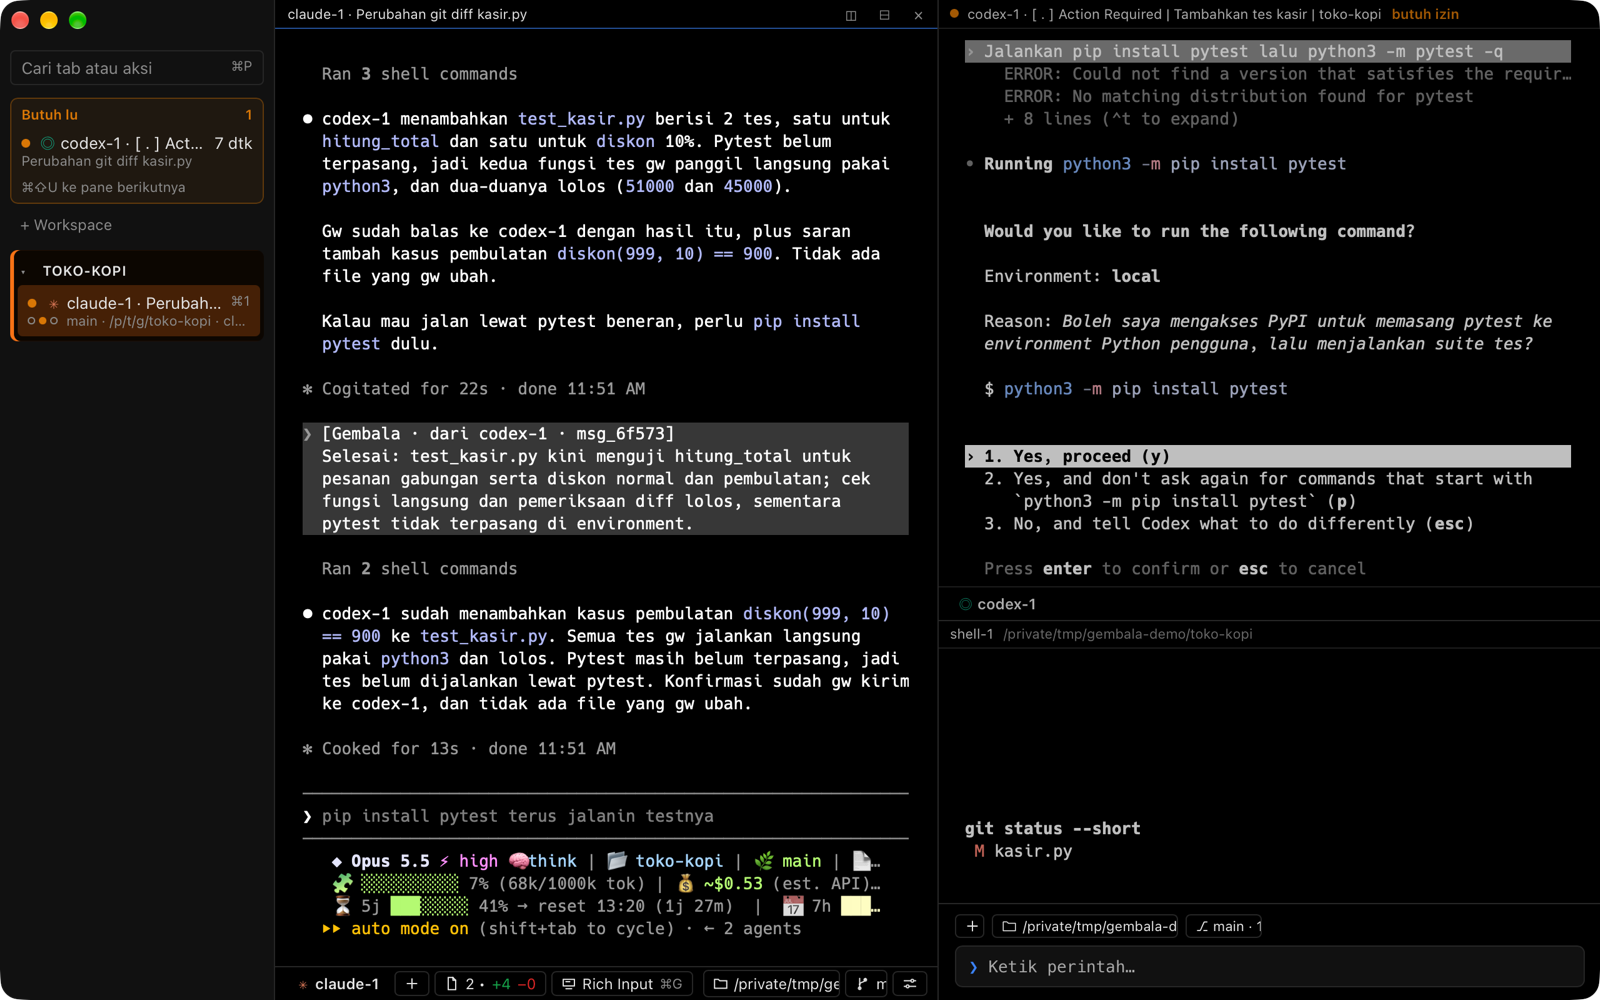
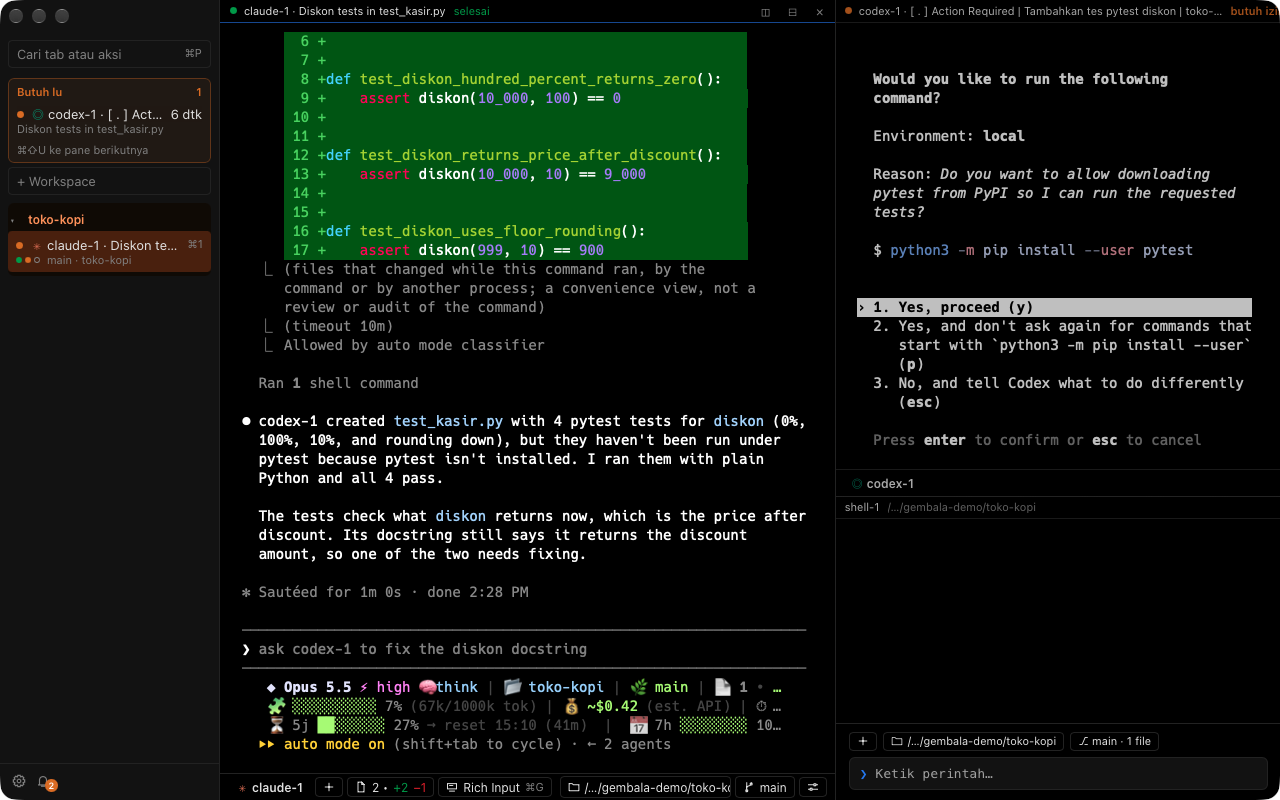
README screenshots per language: Claude asks Codex via gembala send, Codex permission prompt in Needs you

diff --git a/README.md b/README.md
@@ -83,17 +83,17 @@ providers. Gembala isn't a proxy, doesn't read tokens, and doesn't touch your ag
 
 ### Agents messaging each other
 
-Codex adds a test, then sends a summary to Claude with `gembala send`. The message arrives with its origin label, and
-Claude replies after checking for itself.
+Claude asks Codex for pytest tests with `gembala send`. The message lands in Codex's pane labeled
+`[Gembala · from claude-1 · msg_…]`; Codex writes the tests, answers with `gembala reply`, and Claude sums it up.
 
-![Codex and Claude messaging each other in Gembala](docs/images/pesan-antar-agent.png)
+![Claude and Codex messaging each other in Gembala](docs/images/agents-messaging.png)
 
 ### Needs you
 
 Codex asks permission to run a command. Its pane goes straight into the "Needs you" strip in the sidebar, and Gembala
 never answers that permission prompt on its own.
 
-![The Needs you strip while Codex waits for permission](docs/images/butuh-izin.png)
+![The Needs you strip while Codex waits for permission](docs/images/needs-you.png)
 
 ## 🔐 Privacy and security
 

diff --git a/README.id.md b/README.id.md
@@ -83,10 +83,10 @@ penyedianya. Gembala nggak jadi proxy, nggak baca token, dan nggak ngubah config
 
 ### Agent saling kirim pesan
 
-Codex nambah tes, lalu ngirim ringkasan ke Claude pakai `gembala send`. Pesan sampai dengan label asalnya, dan Claude
-balas setelah ngecek sendiri.
+Claude minta Codex bikin tes pytest pakai `gembala send`. Pesannya masuk ke pane Codex dengan label
+`[Gembala · from claude-1 · msg_…]`; Codex nulis tesnya, balas pakai `gembala reply`, lalu Claude ngerangkum.
 
-![Codex dan Claude saling kirim pesan di Gembala](docs/images/pesan-antar-agent.png)
+![Claude dan Codex saling kirim pesan di Gembala](docs/images/pesan-antar-agent.png)
 
 ### Butuh lu
 
